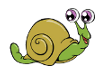
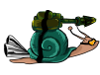
Changement images
Ajout du lanceeeee-flammmmeesssss

diff --git a/js/game.js b/js/game.js
@@ -91,6 +91,8 @@ function generate_line(index){
 	}
 }
 
+var time  = 0;
+
 var alco;
 
 function init(){
@@ -115,7 +117,7 @@ var lastUpdate = 0;
 var mainTimeout;
 var evt_init = false;
 var bonus = 0;
-
+var fire = false;
 
 function initEvents(){
 	if(evt_init)
@@ -129,17 +131,22 @@ function initEvents(){
 				perso_pos++;
 				down[0] = true;
 			}
-			if(key  == 38 && perso_pos > 0 && !down[1] && !anim.type == GLISSE){//haut
+			else if(key  == 38 && perso_pos > 0 && !down[1] && !anim.type == GLISSE){//haut
 				perso_pos--;
 				down[1] = true;
 			} 
-			if(key  == 37 && perso_adv > 0 && !down[2]){ //gauche
+			else if(key  == 37 && perso_adv > 0 && !down[2]){ //gauche
 				perso_adv--;
 				down[2] = true;
-			};
-			if(key  == 39 && perso_adv < w_g - 1 && !down[3]){ //droite
+			}
+			else if(key  == 39 && perso_adv < w_g - 1 && !down[3]){ //droite
 				perso_adv++;
 				down[3] = true;
+			}
+			
+			if(key  == 32 && !fire){ // espace
+				fire = true;
+				fire_time = 0;
 			}
 		},
 		keyup: function(e) {
@@ -155,6 +162,9 @@ function initEvents(){
 			};
 			if(key  == 39){ //droite
 				down[3] = false;
+			}
+			if(key  == 32){ // espace
+				fire = false;
 			}
 		},
 
@@ -179,8 +189,9 @@ function launchGame(){
 	alco = 20;
 	perso_pos = Math.ceil(h_g / 2) - 1;
 	perso_adv = 0;
-	
+	time = 0;
 	run = true;
+	fire = false;
 	jQuery('#sound_eternal_war').get(0).play();
 	
 	init();
@@ -195,12 +206,15 @@ var last_milestone = 0;
 var l_dec = 0;
 function update(){
 	distance += speed/fps;
+	time += 150*fpsInv;
 	var x_dec = distance % w_i;
 	if(x_dec < l_dec){
 		cases = cases.slice(1,cases.lenght);
 		objs = objs.slice(1,objs.lenght);
 			generate_line();
 	}
+	
+	
 	
 	handleColision();
 	l_dec = x_dec;
@@ -210,10 +224,10 @@ function update(){
 	drawInfos();
 	//Draw objs
 	drawObjs(x_dec);
-	//Draw particles
-	drawParticles();
 	//Draw perso
 	drawPerso();
+	//Draw particles
+	drawParticles();
 	
 	if(distance - last_milestone > milestone_up*(1+speed_up_nb*1.5)){
 		speed *= speed_up;
@@ -232,7 +246,7 @@ function handleColision(){
 	
 	if(ground == 'oil'){
 		cases[perso_adv][perso_pos] = 'road';
-		add_anim(GLISSE, 5);
+		add_anim(GLISSE, 2);
 	}
 	var obj = objs[perso_adv][perso_pos];
 	if(obj == 'water' && speed > 30){
@@ -278,15 +292,33 @@ function drawObjs(x_dec){
 		posX = x*w_i - x_dec;
 		
 		jQuery.each(line,function(y, img){
-			if(img != null)
+			if(img != null){
 				jQuery('#game').drawImage({
 					source: _(img),
 					x: posX,
 					y: y_dec + y*h_i - h_i/3 ,
 					fromCenter: false
 				});
+			}
 		});
 	});
+}
+
+var fire_time = 0;
+
+function launch_fire(pos, x_dec){
+	if(fire_time++ == 0){
+		alco--;
+	}
+	for(i_fire = 0; i_fire < 5; ++i_fire)
+		addFire(3.5*(Math.random()+0.5), 0.2*(Math.random()-0.5), 1+Math.random()*1.3, pos.x+w_i-20, pos.y + 10, -0.2-Math.random()/2,
+			-0.1-Math.random()/2,(Math.random()-0.5)*360, (Math.random()-0.5)/2,1, DEAD_TEDDY_OBJ);
+	
+	if(fire_time > fps/2){
+		addSmoke(3.5*(Math.random()+0.5), 0.2*(Math.random()-0.5), 1+Math.random()*1.3, pos.x+w_i-20, pos.y + 8, -0.2-Math.random()/2,
+			-0.1-Math.random()/2,(Math.random()-0.5)*360, (Math.random()-0.5)/2,1);
+		fire_time = 0;
+	}
 }
 
 function drawParticles(){
@@ -302,12 +334,32 @@ function drawParticles(){
 		particle.rot 	+= particle.v_rot*fpsInv*100;
 		particle.life 	-= fpsInv;
 		
+		if(particle.dead != DEAD_NOT){
+			var case_part_x = Math.round((particle.x-l_dec)/w_i);
+			var case_part_y = Math.floor((particle.y-g_y_dec)/h_i);
+			
+			if((particle.dead == DEAD_ALL || particle.dead == DEAD_OTHER ||
+			   particle.dead == DEAD_OBJ || particle.dead == DEAD_TEDDY_OBJ) &&
+				case_part_x >=0 && case_part_x < objs.length &&
+				
+				(objs[case_part_x][case_part_y] != null ||
+				cases[case_part_x][case_part_y] != 'road')){
+					objs[case_part_x][case_part_y] = null;
+					cases[case_part_x][case_part_y] = 'road';
+			
+					particules = remove(particules,index);
+			}
+		}
+		
+		
+		
 		jQuery('#game').drawImage({
 			source		: _(particle.type),
 			x			: particle.x,
 			y			: particle.y,
 			rotate		: particle.rot,
 			opacity		: 1- (particle.life_b - particle.life)/particle.life_b,
+			scale		: particle.scale,
 			fromCenter	: false
 		});
 	});
@@ -334,27 +386,39 @@ function drawPerso(){
 		rotate: pos.rot,
 		fromCenter: false
 	});
+	if(fire == true){
+		launch_fire(pos);
+	}
+	
 	fire_t ++;
 	fire_t %= 3;
 	if(fire_t == 2)
-		addFire(-0.75*Math.random(), -0.2*(Math.random()+0.2), 1+Math.random()/0.8, pos.x, pos.y + h_i/2, Math.random()/2, Math.random()/2,(Math.random()-0.5)*360, (Math.random()-0.5));
+		addFire(-0.75*Math.random(), -0.2*(Math.random()+0.2), 1+Math.random()/0.8, pos.x-10, pos.y + h_i/3, Math.random()/2, Math.random()/2,(Math.random()-0.5)*360, (Math.random()-0.5),1);
+	if(fire_t == 1){
+		addFire(-0.2*Math.random(), -0.3*(Math.random()+0.2), 1+Math.random()/5, pos.x+w_i-20, pos.y + 8, Math.random()/2, Math.random()/2,(Math.random()-0.5)*360, (Math.random()-0.5)/2,0.3);
+		addSmoke(-0.2*Math.random(), -0.3*(Math.random()+0.2), 1+Math.random()/0.8, pos.x+w_i-20, pos.y + 8, Math.random()/2, Math.random()/2,(Math.random()-0.5)*360, (Math.random()-0.5)/2,0.3);
+	}
 	//add smoke
-	for(p_index = 0;p_index < 2;++p_index )
-		addSmoke(-1.5*Math.random(), -0.4*(Math.random()+0.2), 1+Math.random()*1.5, pos.x, pos.y + h_i/2, Math.random()/2, Math.random()/2,(Math.random()-0.5)*360, (Math.random()-0.5));
+	//for(p_index = 0;p_index < 2;++p_index )
+		addSmoke(-1.5*Math.random(), -0.4*(Math.random()+0.2), 1+Math.random()*1.5, pos.x-10, pos.y + h_i/3, Math.random()/2, Math.random()/2,(Math.random()-0.5)*360, (Math.random()-0.5),1);
+		//lance flame
 	
 		
 	if(anim.duree != 'Infinity'){
+		
 		anim.duree -= fpsInv;
 		if(anim.duree <= 0){
-			add_anim_classic();
+			g_y_dec = 0;
+			console.log('ok')
+				add_anim_classic();
 		}
 	}
 	
 }
-
+var g_y_dec = 0;
 function drawPersoClassic(){
 	
-	var g_y_dec = Math.sin(distance/speed*1.5)*h_i/6;
+	 g_y_dec = Math.sin(time/speed*1.5)*h_i/6;
 	return {
 		x:perso_adv*w_i,
 		y:y_dec + perso_pos*h_i + g_y_dec - h_i/3,
@@ -363,7 +427,7 @@ function drawPersoClassic(){
 
 function drawPersoGlisse(){
 	
-	var g_y_dec = Math.sin(anim.options.y)*h_i/4;
+	g_y_dec = Math.sin(anim.options.y)*h_i/4;
 	var rot = 30*Math.sin(anim.options.y/1.5)
 	
 	anim.options.y += fpsInv*5;
@@ -474,7 +538,17 @@ var SMOKE = 'smoke';
 var FIRE = 'fire';
 
 
-function addSmoke(v_x, v_y, life, x_orig, y_orig, v_x_p, v_y_p, rot, v_rot){
+var DEAD_NOT		= 0;
+var DEAD_PLAYER 	= 1;
+var DEAD_OTHER 		= 2;
+var DEAD_TEDDY 		= 3;
+var DEAD_TEDDY_OBJ 	= 4;
+var DEAD_OBJ 		= 5;
+var DEAD_ALL 		= 6;
+
+function addSmoke(v_x, v_y, life, x_orig, y_orig, v_x_p, v_y_p, rot, v_rot, scale, dead){
+	if(dead == undefined)
+		dead = DEAD_NOT;
 	particules.push({
 		type 	: SMOKE,
 		life 	: life,
@@ -486,11 +560,15 @@ function addSmoke(v_x, v_y, life, x_orig, y_orig, v_x_p, v_y_p, rot, v_rot){
 		v_y_p  	: v_y_p,
 		x    	: x_orig,
 		y    	: y_orig,
-		rot		: rot
+		rot		: rot,
+		scale	: scale,
+		dead	: dead
 	});
 }
 
-function addFire(v_x, v_y, life, x_orig, y_orig, v_x_p, v_y_p, rot, v_rot){
+function addFire(v_x, v_y, life, x_orig, y_orig, v_x_p, v_y_p, rot, v_rot, scale, dead){
+	if(dead == undefined)
+		dead = DEAD_NOT;
 	particules.push({
 		type 	: FIRE,
 		life 	: life,
@@ -502,6 +580,8 @@ function addFire(v_x, v_y, life, x_orig, y_orig, v_x_p, v_y_p, rot, v_rot){
 		v_y_p  	: v_y_p,
 		x    	: x_orig,
 		y    	: y_orig,
-		rot		: rot
+		rot		: rot,
+		scale	: scale,
+		dead	: dead
 	});
 }

diff --git a/js/master.js b/js/master.js
@@ -14,6 +14,8 @@ function selectScreen(screen){
 	jQuery('#inscr_form').hide();
 	jQuery('#game').hide();
 	jQuery('#scores').hide();
+	jQuery('#about').hide();
+	jQuery('#credit').hide();
 	jQuery('#end').hide();
 	jQuery('*[rel="popover"]').popover('hide');
 	
@@ -23,6 +25,12 @@ function selectScreen(screen){
 			break;
 		case 'end': //fin
 			jQuery('#end').show();
+			break;
+		case 'about'://About
+			jQuery('#about').show();
+			break;
+		case 'credit'://credit
+			jQuery('#credit').show();
 			break;
 		case 'game': //jeu
 			jQuery('#game').show();
